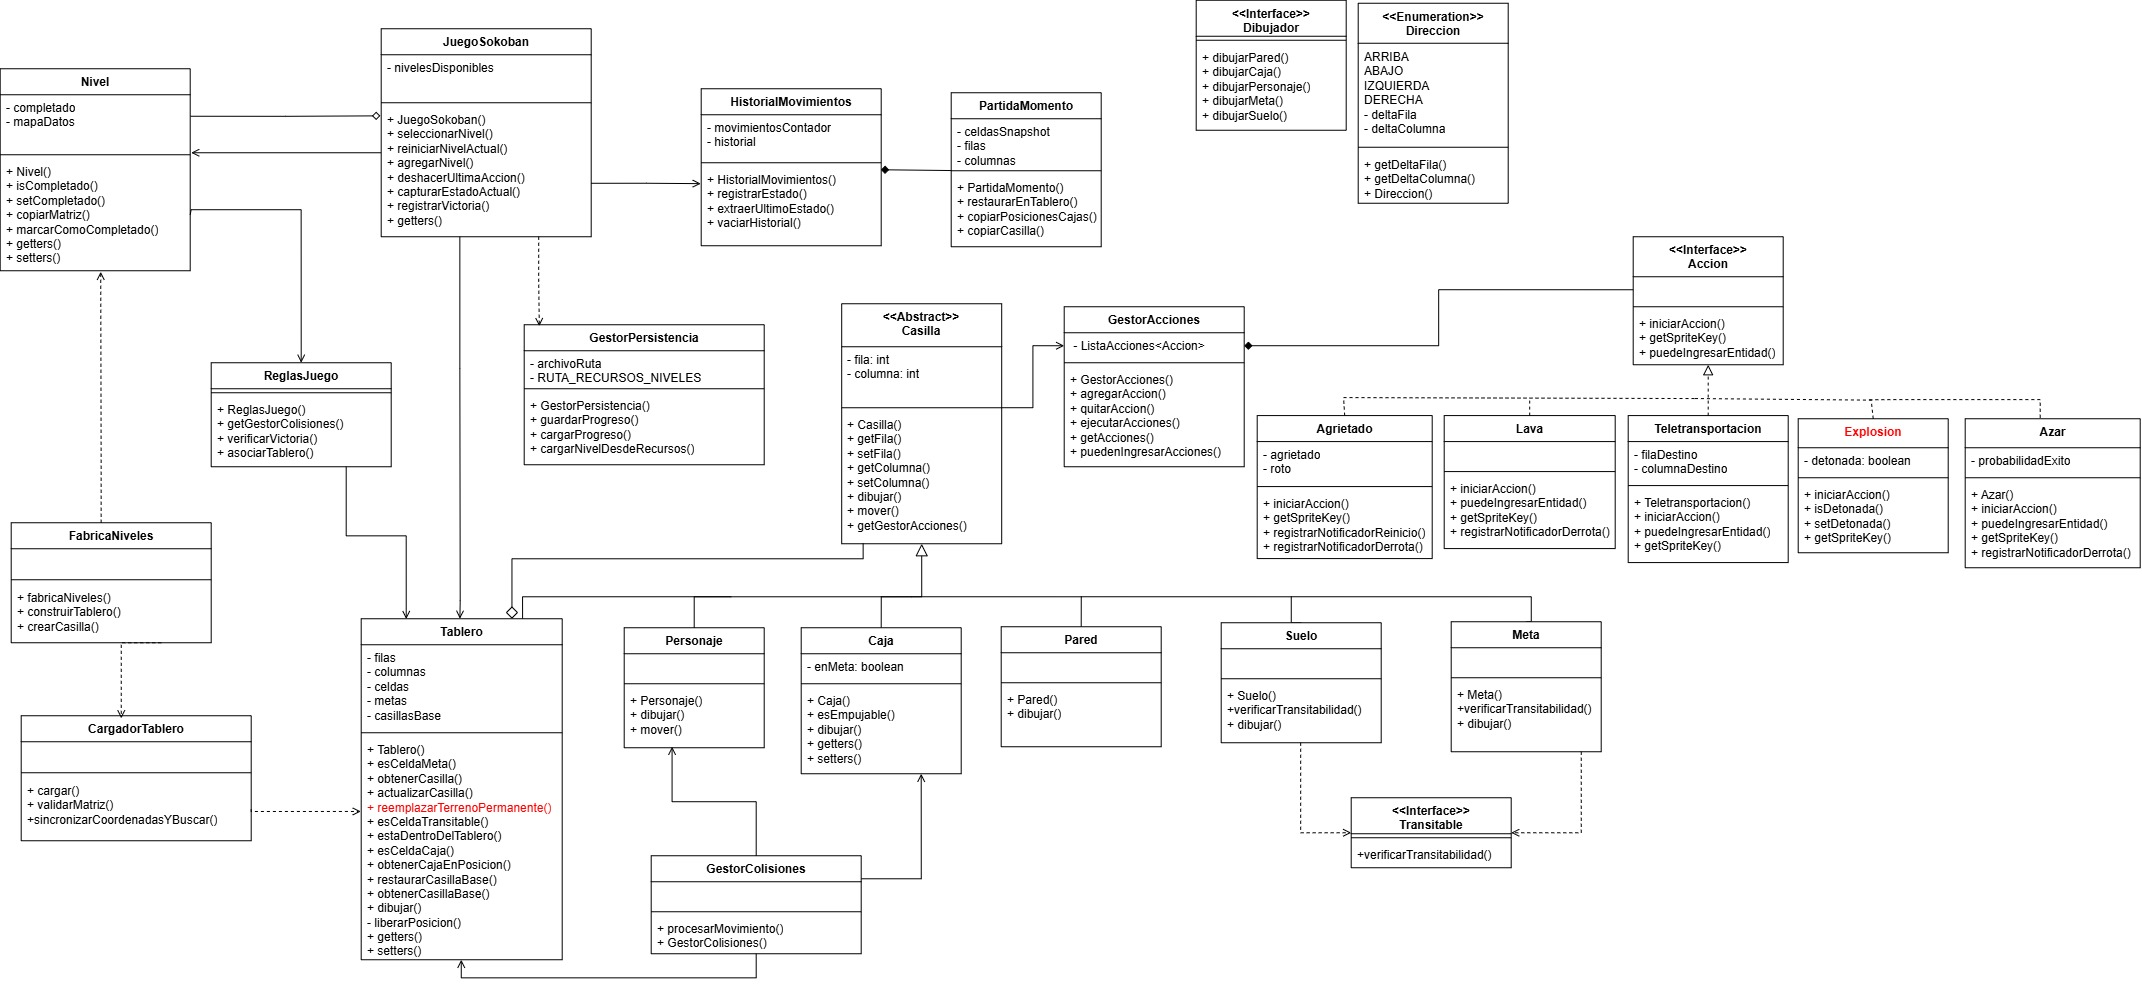
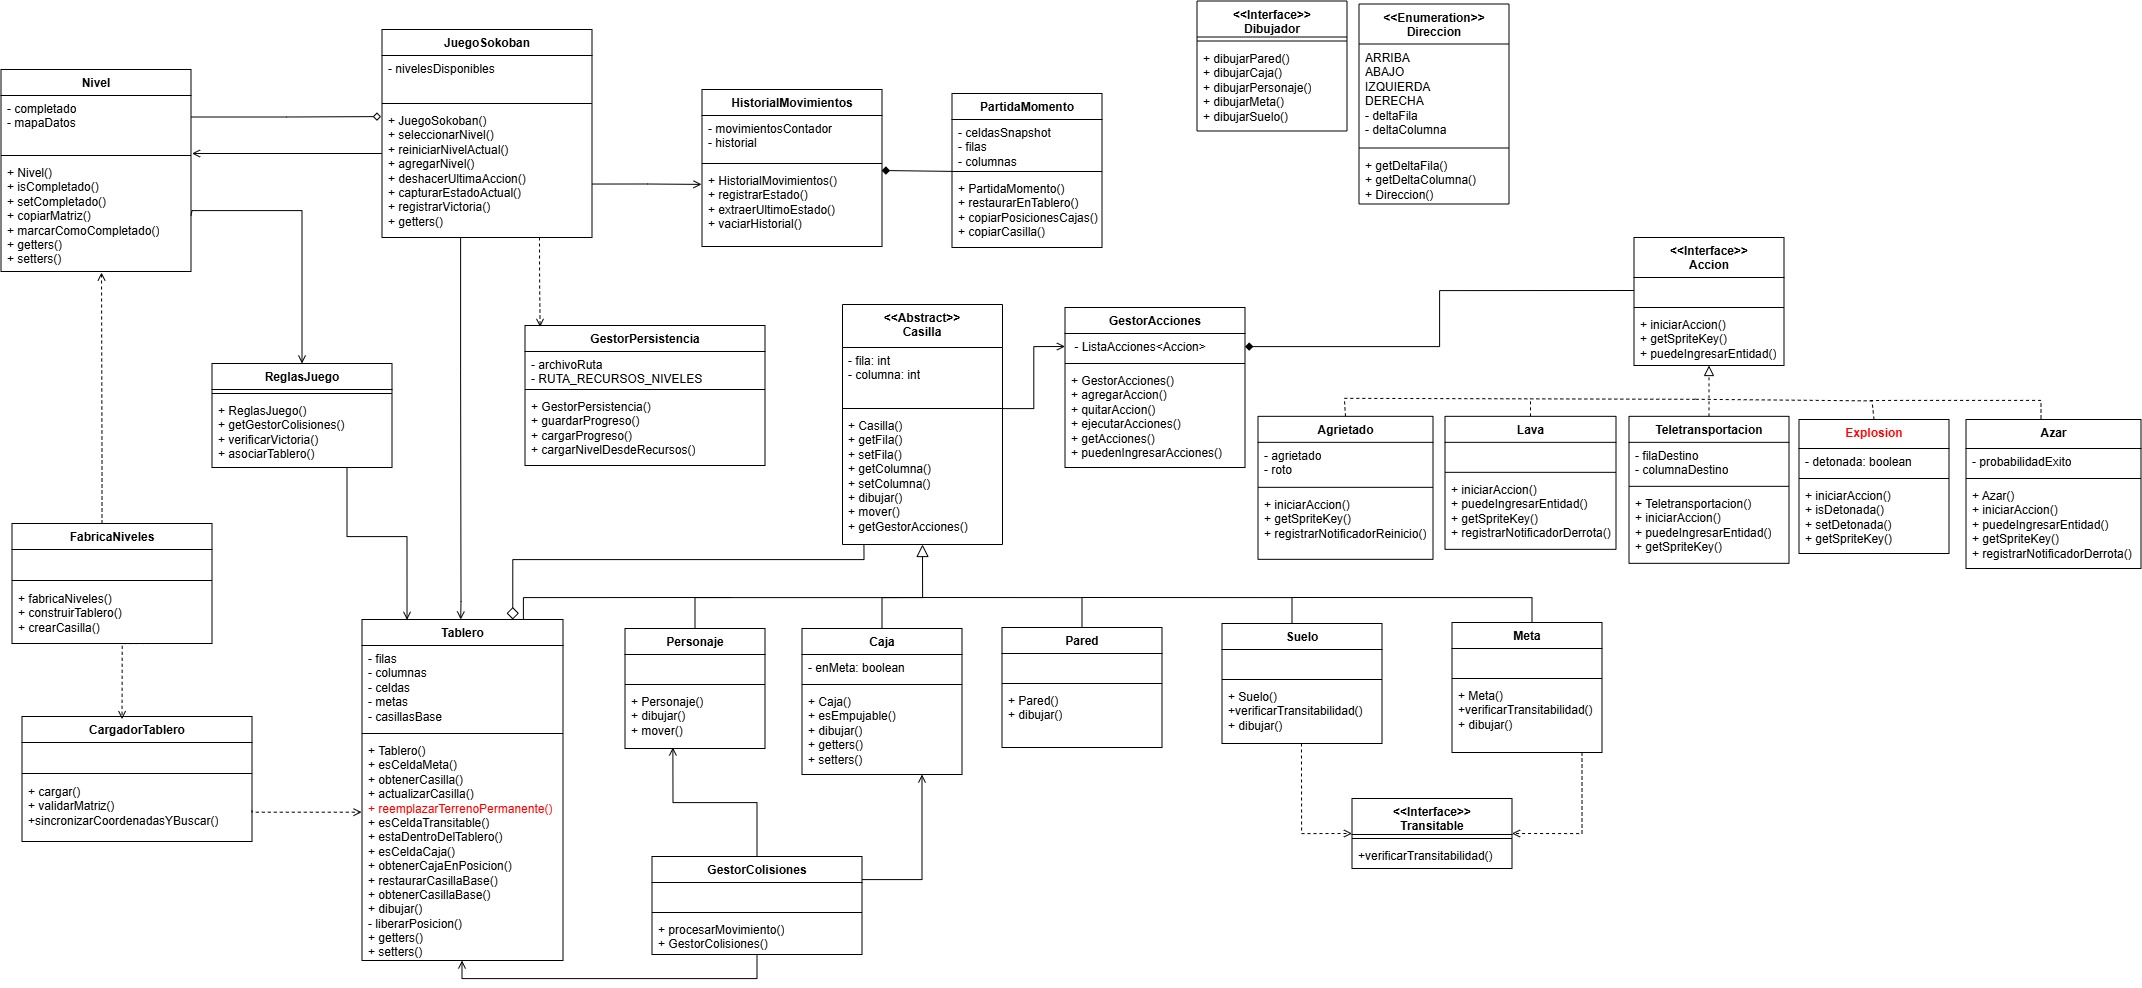
Retiro metodo obsoleto en agrietado

diff --git a/src/main/java/ec/edu/epn/sokoban/model/escenario/Agrietado.java b/src/main/java/ec/edu/epn/sokoban/model/escenario/Agrietado.java
@@ -31,10 +31,6 @@ public class Agrietado implements Accion {
         notificadorReinicio = accion;
     }
 
-    public static void registrarNotificadorDerrota(Runnable accion) {
-        notificadorReinicio = accion;
-    }
-
     @Override
     public void iniciarAccion(Casilla casillaActual, Tablero tablero, Casilla entidad) {
         if (!(entidad instanceof Personaje)) {